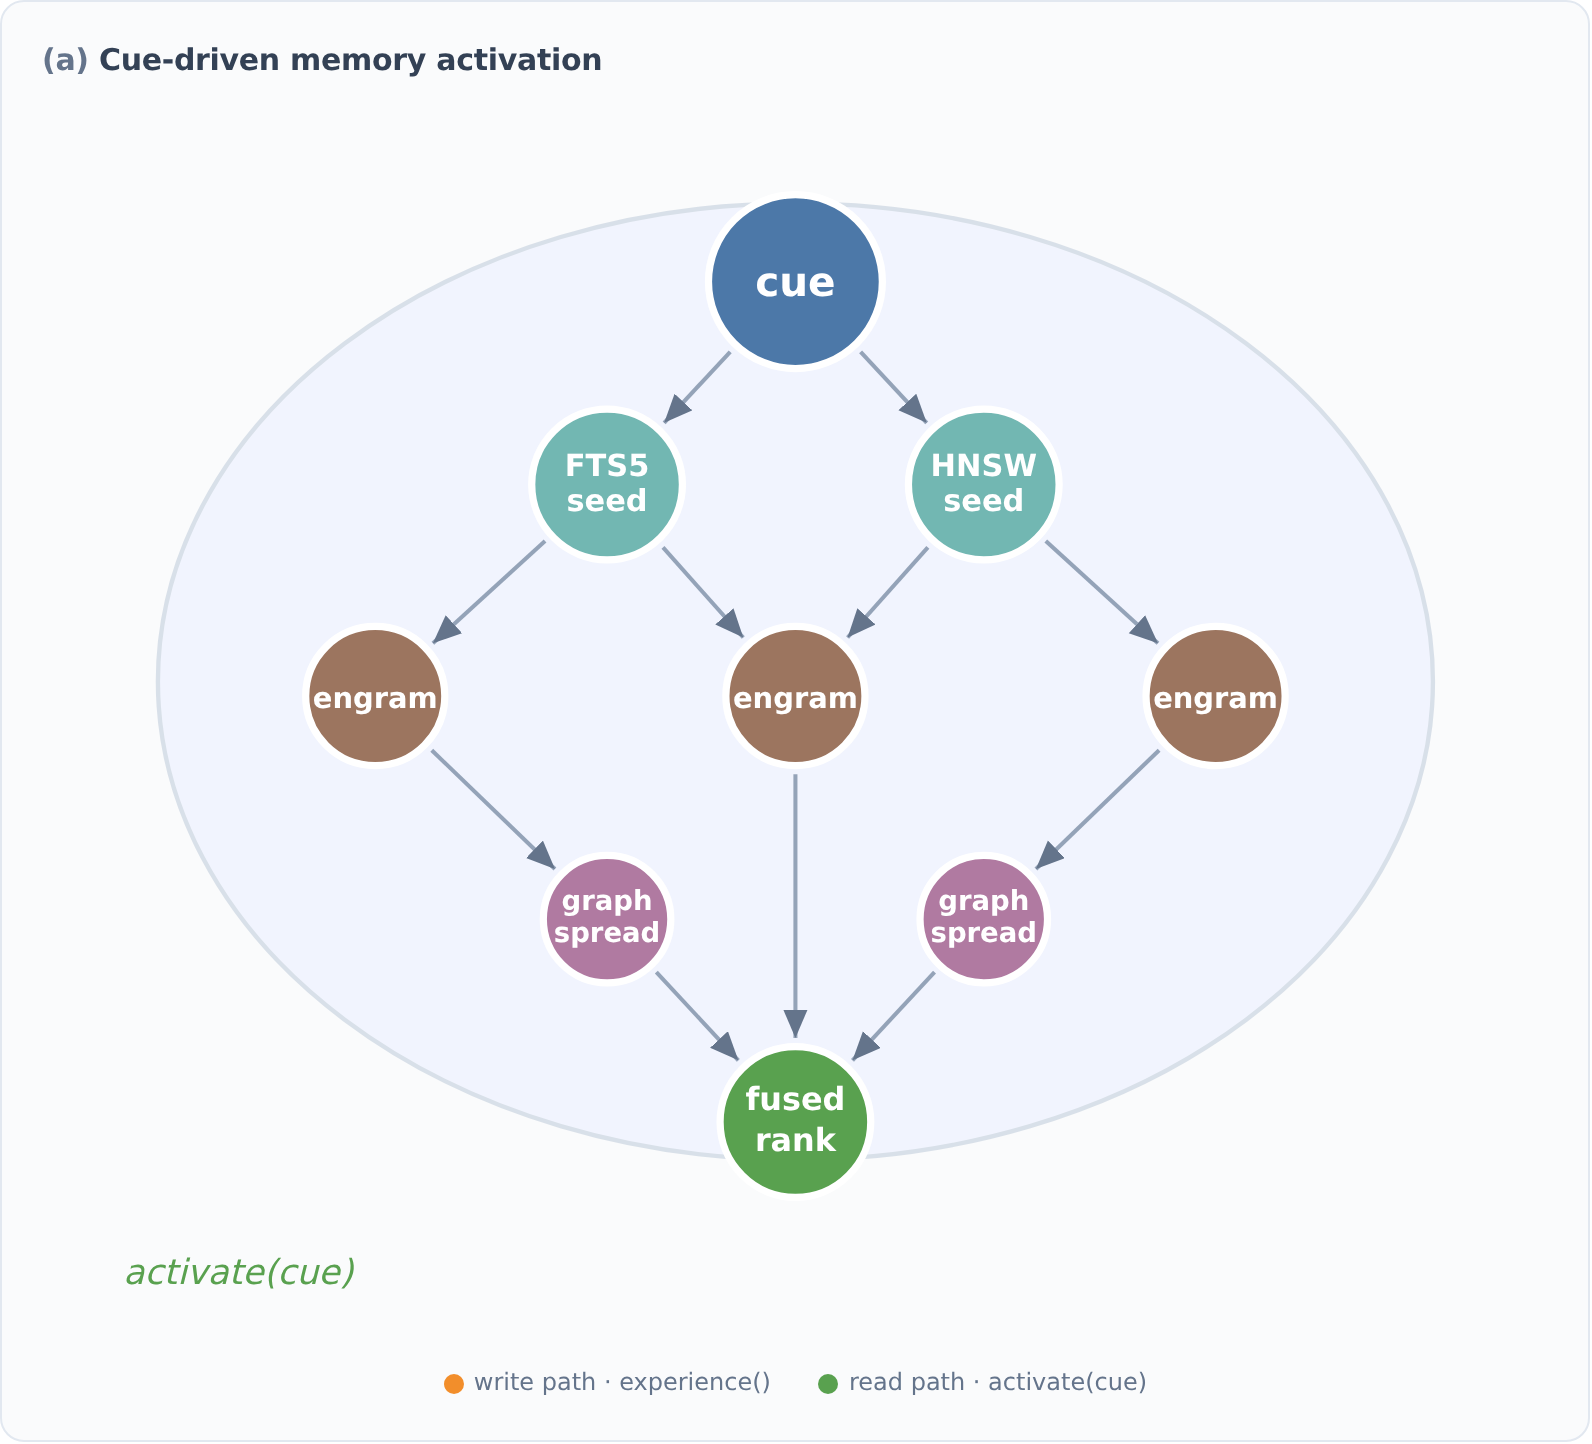
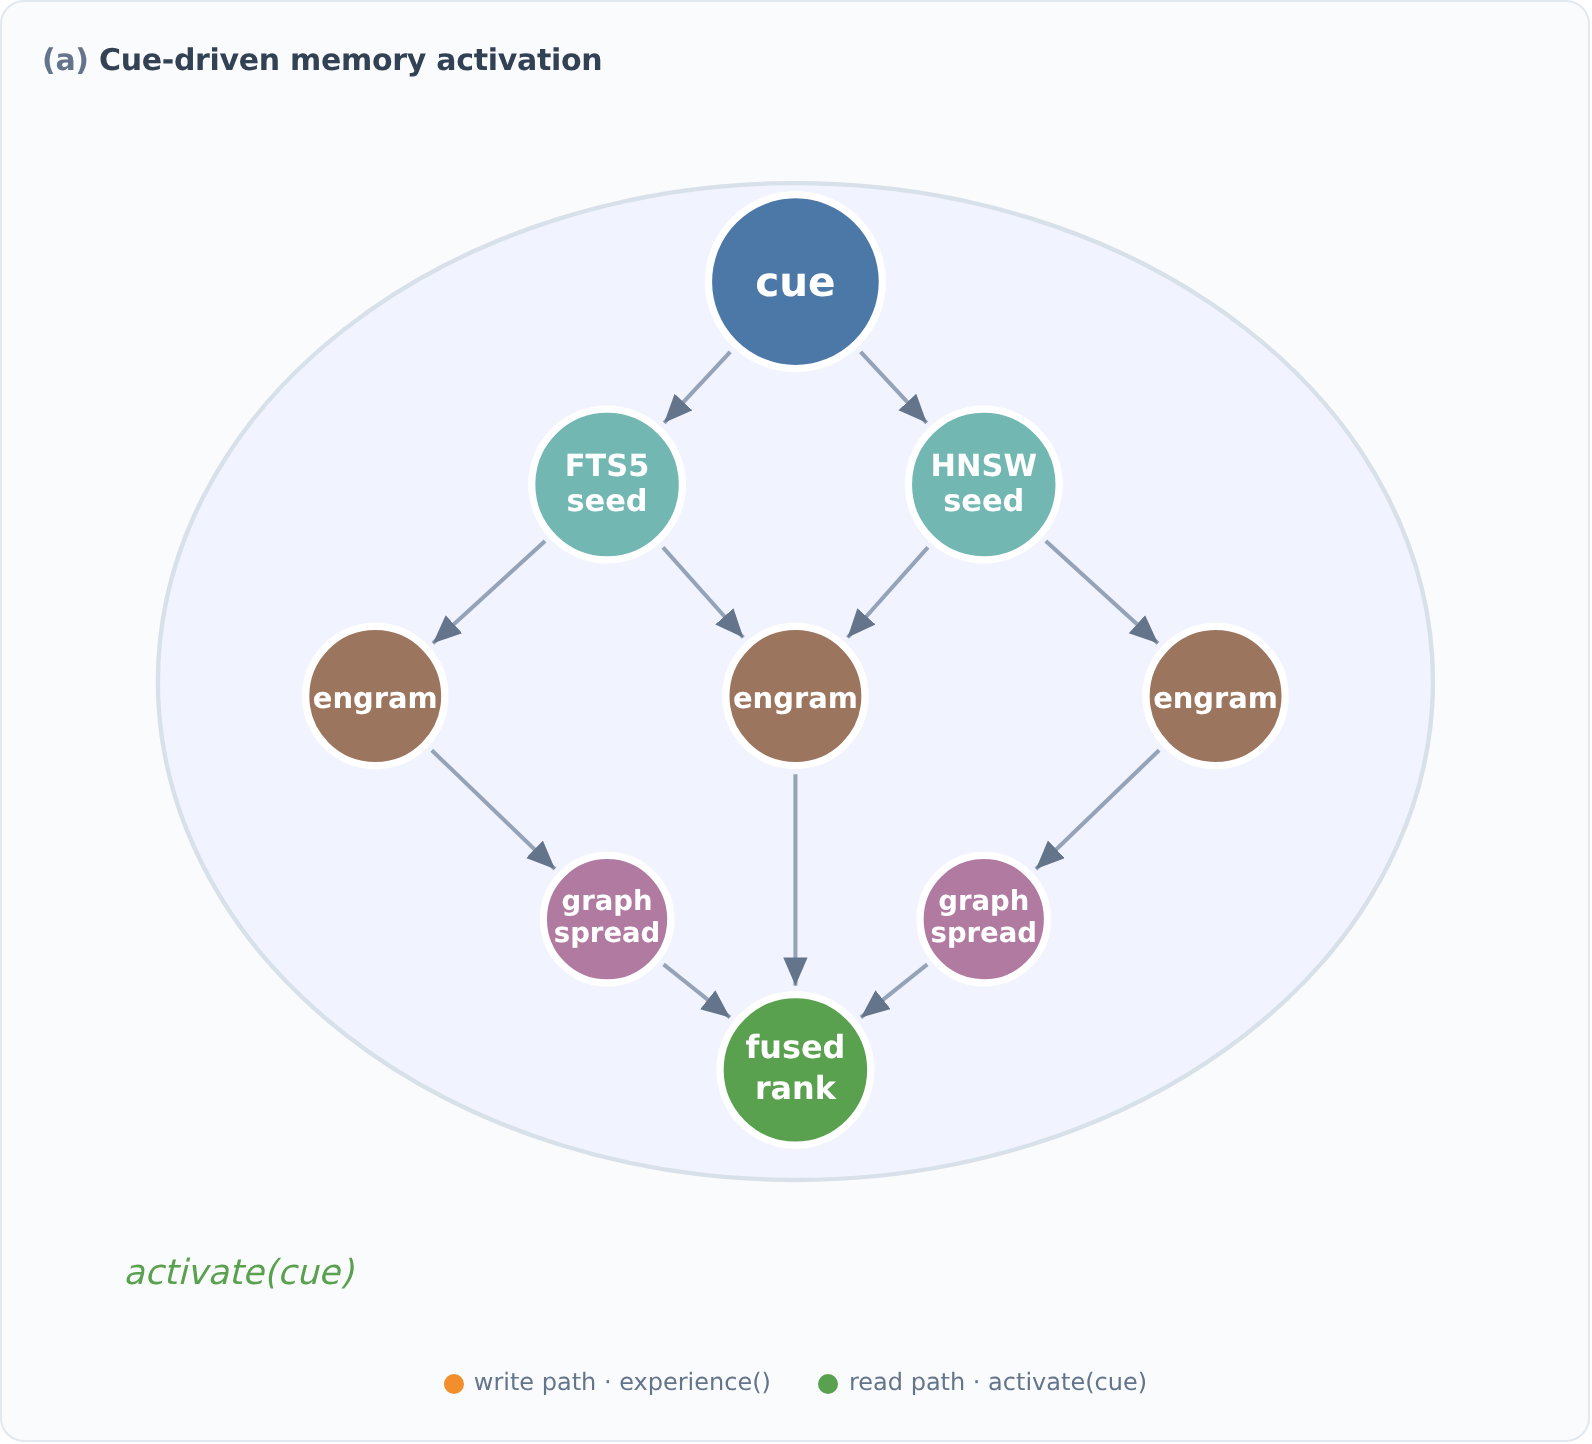
Fix Figure 1 (a): keep fused rank inside brain ellipse
Move fused rank node up (cy 352→334), recompute inbound arrows, and
expand brain casing ellipse (ry 165→172). Audit now checks all nodes
fit inside the background ellipse.

diff --git a/papers/figures/fig1_template.html b/papers/figures/fig1_template.html
@@ -185,7 +185,7 @@
     <div class="panel-title"><span>(a)</span> Cue-driven memory activation</div>
     <svg class="hero-svg" viewBox="0 0 520 430" xmlns="http://www.w3.org/2000/svg">
       <!-- brain casing -->
-      <ellipse cx="260" cy="200" rx="220" ry="165" fill="#eef2ff" stroke="#cbd5e1" stroke-width="1.5" opacity="0.7"/>
+      <ellipse cx="260" cy="200" rx="220" ry="172" fill="#eef2ff" stroke="#cbd5e1" stroke-width="1.5" opacity="0.7"/>
 
       <defs>
         <marker id="arr" markerWidth="8" markerHeight="8" refX="7" refY="3" orient="auto">
@@ -203,9 +203,9 @@
         <line x1="346.4" y1="151.5" x2="385.1" y2="186.8"/>
         <line x1="134.5" y1="223.7" x2="177.0" y2="264.7"/>
         <line x1="385.5" y1="223.7" x2="343.0" y2="264.7"/>
-        <line x1="260.0" y1="232.0" x2="260.0" y2="323.0"/>
-        <line x1="212.0" y1="300.3" x2="240.3" y2="330.7"/>
-        <line x1="308.0" y1="300.3" x2="279.7" y2="330.7"/>
+        <line x1="260.0" y1="232.0" x2="260.0" y2="305.0"/>
+        <line x1="214.5" y1="297.6" x2="237.4" y2="315.9"/>
+        <line x1="305.5" y1="297.6" x2="282.6" y2="315.9"/>
       </g>
 
       <!-- nodes -->
@@ -238,9 +238,9 @@
         <text x="325" y="279" text-anchor="middle" font-size="9.5" font-weight="700" fill="#fff">graph</text>
         <text x="325" y="290" text-anchor="middle" font-size="9.5" font-weight="700" fill="#fff">spread</text>
 
-        <circle cx="260" cy="352" r="26" fill="#59a14f" stroke="#fff" stroke-width="2.5"/>
-        <text x="260" y="348" text-anchor="middle" font-size="11" font-weight="700" fill="#fff">fused</text>
-        <text x="260" y="362" text-anchor="middle" font-size="11" font-weight="700" fill="#fff">rank</text>
+        <circle cx="260" cy="334" r="26" fill="#59a14f" stroke="#fff" stroke-width="2.5"/>
+        <text x="260" y="330" text-anchor="middle" font-size="11" font-weight="700" fill="#fff">fused</text>
+        <text x="260" y="344" text-anchor="middle" font-size="11" font-weight="700" fill="#fff">rank</text>
 
         <text x="28" y="408" font-size="12" fill="#59a14f" font-style="italic">activate(cue)</text>
       </g>

diff --git a/papers/figures/audit_fig1_playwright.py b/papers/figures/audit_fig1_playwright.py
@@ -20,7 +20,7 @@ NODES = {
     "eR": (405, 205, 24),
     "gsL": (195, 282, 22),
     "gsR": (325, 282, 22),
-    "fused": (260, 352, 26),
+    "fused": (260, 334, 26),
 }
 EDGES = [
     ("cue", "fts5"), ("cue", "hnsw"),
@@ -95,6 +95,27 @@ def audit_svg_arrows(page) -> int:
     return issues
 
 
+def audit_ellipse_containment(page) -> int:
+    """All hero node circles must fit inside the brain casing ellipse."""
+    issues = 0
+    ellipse = {"cx": 260, "cy": 200, "rx": 220, "ry": 172, "pad": 2}
+    cx, cy, rx, ry, pad = ellipse["cx"], ellipse["cy"], ellipse["rx"], ellipse["ry"], ellipse["pad"]
+
+    for name, (nx, ny, nr) in NODES.items():
+        for label, px, py in (
+            ("center", nx, ny),
+            ("top", nx, ny - nr),
+            ("bottom", nx, ny + nr),
+            ("left", nx - nr, ny),
+            ("right", nx + nr, ny),
+        ):
+            val = ((px - cx) / rx) ** 2 + ((py - cy) / ry) ** 2
+            if val > 1.0 + pad / min(rx, ry):
+                issues += 1
+                print(f"ELLIPSE OUT: {name} {label} ({px},{py}) val={val:.3f}")
+    return issues
+
+
 def main() -> None:
     with sync_playwright() as p:
         browser = p.chromium.launch()
@@ -146,9 +167,10 @@ def main() -> None:
                     print(f"CROSS-PANEL OVERLAP: {na} ↔ {nb}")
 
         arrow_issues = audit_svg_arrows(page)
+        ellipse_issues = audit_ellipse_containment(page)
 
-        print(f"\nSummary: clip={clip_issues} out_of_body={oob} cross_panel={cross} arrows={arrow_issues}")
-        if clip_issues == 0 and oob == 0 and cross == 0 and arrow_issues == 0:
+        print(f"\nSummary: clip={clip_issues} out_of_body={oob} cross_panel={cross} arrows={arrow_issues} ellipse={ellipse_issues}")
+        if clip_issues == 0 and oob == 0 and cross == 0 and arrow_issues == 0 and ellipse_issues == 0:
             print("PASS — figure ready for paper.")
 
         browser.close()
